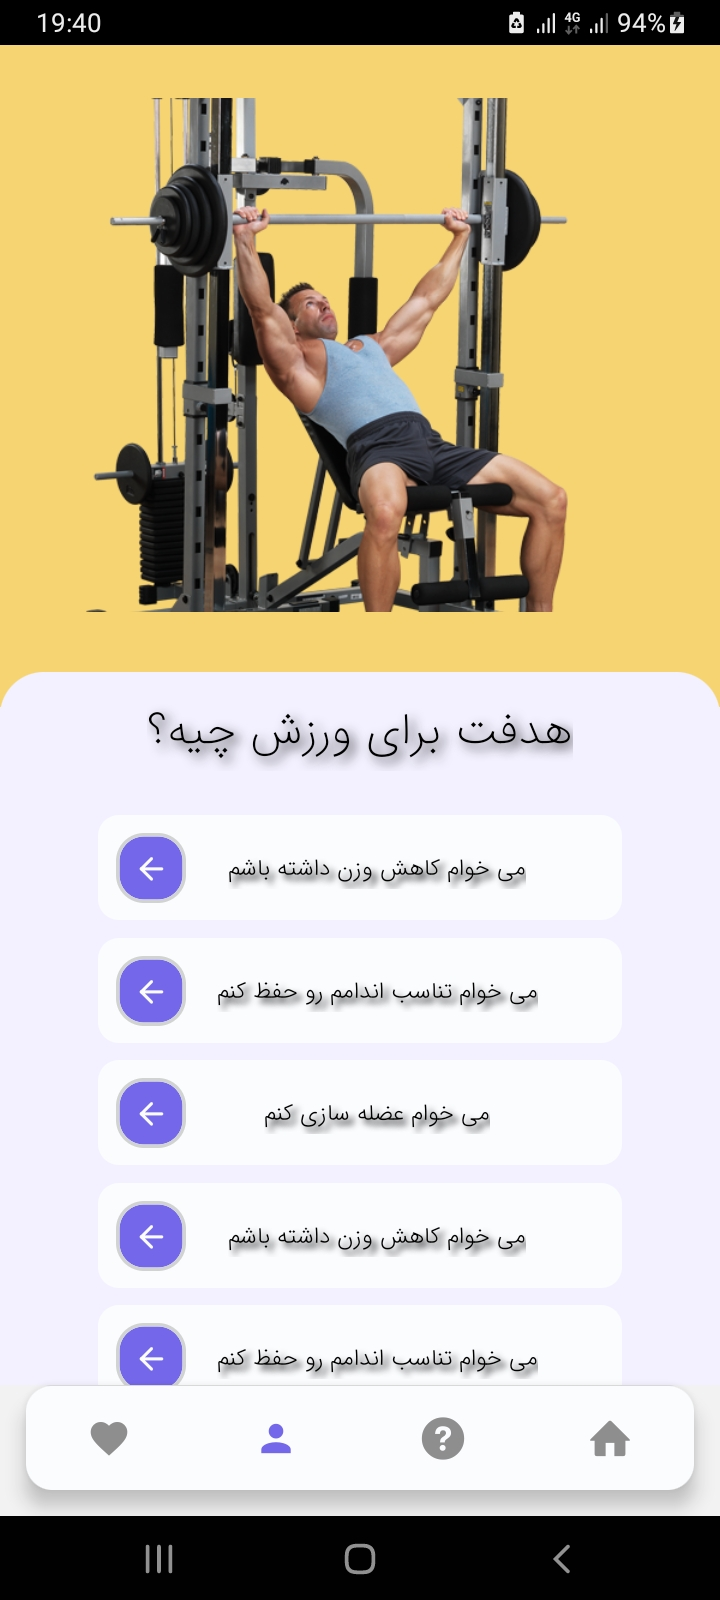
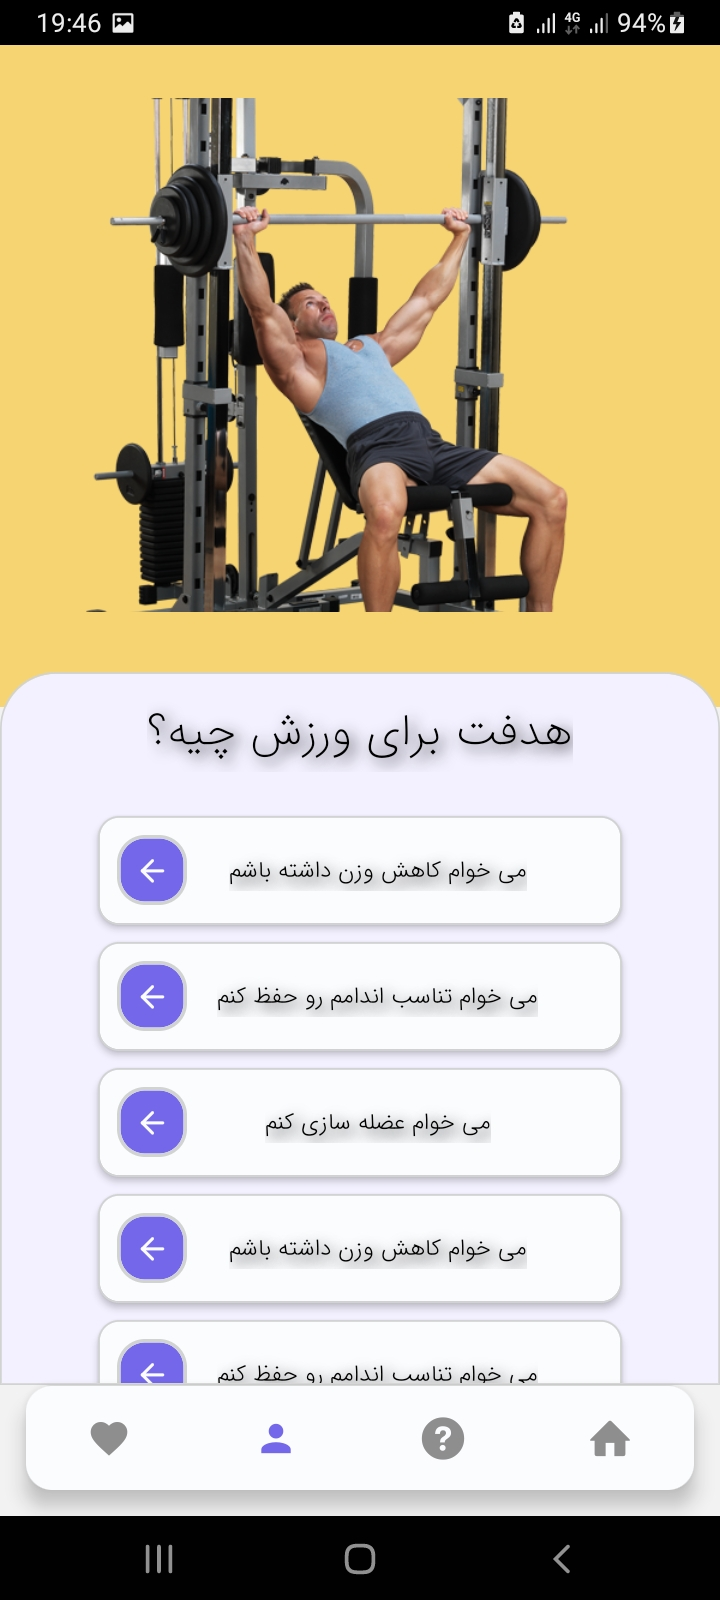
added shaddow

diff --git a/Screens/Profile.js b/Screens/Profile.js
@@ -74,8 +74,10 @@ const styles = StyleSheet.create({
         flex: 1,
         backgroundColor: colors.lightGray,
         marginTop: -20,
-        borderTopLeftRadius: 25,
-        borderTopRightRadius: 25,
+        borderTopLeftRadius: 32,
+        borderTopRightRadius: 32,
+        borderWidth: 1,
+        borderColor: colors.gray,
     },
     descriptionWrapper: {
         flex: 1,
@@ -89,7 +91,7 @@ const styles = StyleSheet.create({
         fontSize: 32,
         textShadowColor:colors.black,
         textShadowOffset:{width: 3, height: 3},
-        textShadowRadius:9,
+        textShadowRadius:12,
     },
     flatListWrapper: {
         width: Width * 0.8,
@@ -104,6 +106,16 @@ const styles = StyleSheet.create({
         alignItems: "center",
         backgroundColor: colors.white,
         borderRadius: 12,
+        borderColor: colors.gray,
+        borderWidth: 1,
+        shadowColor: "#000",
+        shadowOffset: {
+            width: 0,
+            height: 2,
+        },
+        shadowOpacity: 0.15,
+        shadowRadius: 3.84,
+        elevation: 3,
     },
     buttonIconWrapper: {
         height: 40,
@@ -121,7 +133,7 @@ const styles = StyleSheet.create({
         fontSize: 16,
         textShadowColor:colors.black,
         textShadowOffset:{width: 3, height: 3},
-        textShadowRadius:5,
+        textShadowRadius:12,
     },
     iconPosition: {
         marginHorizontal: 10,
